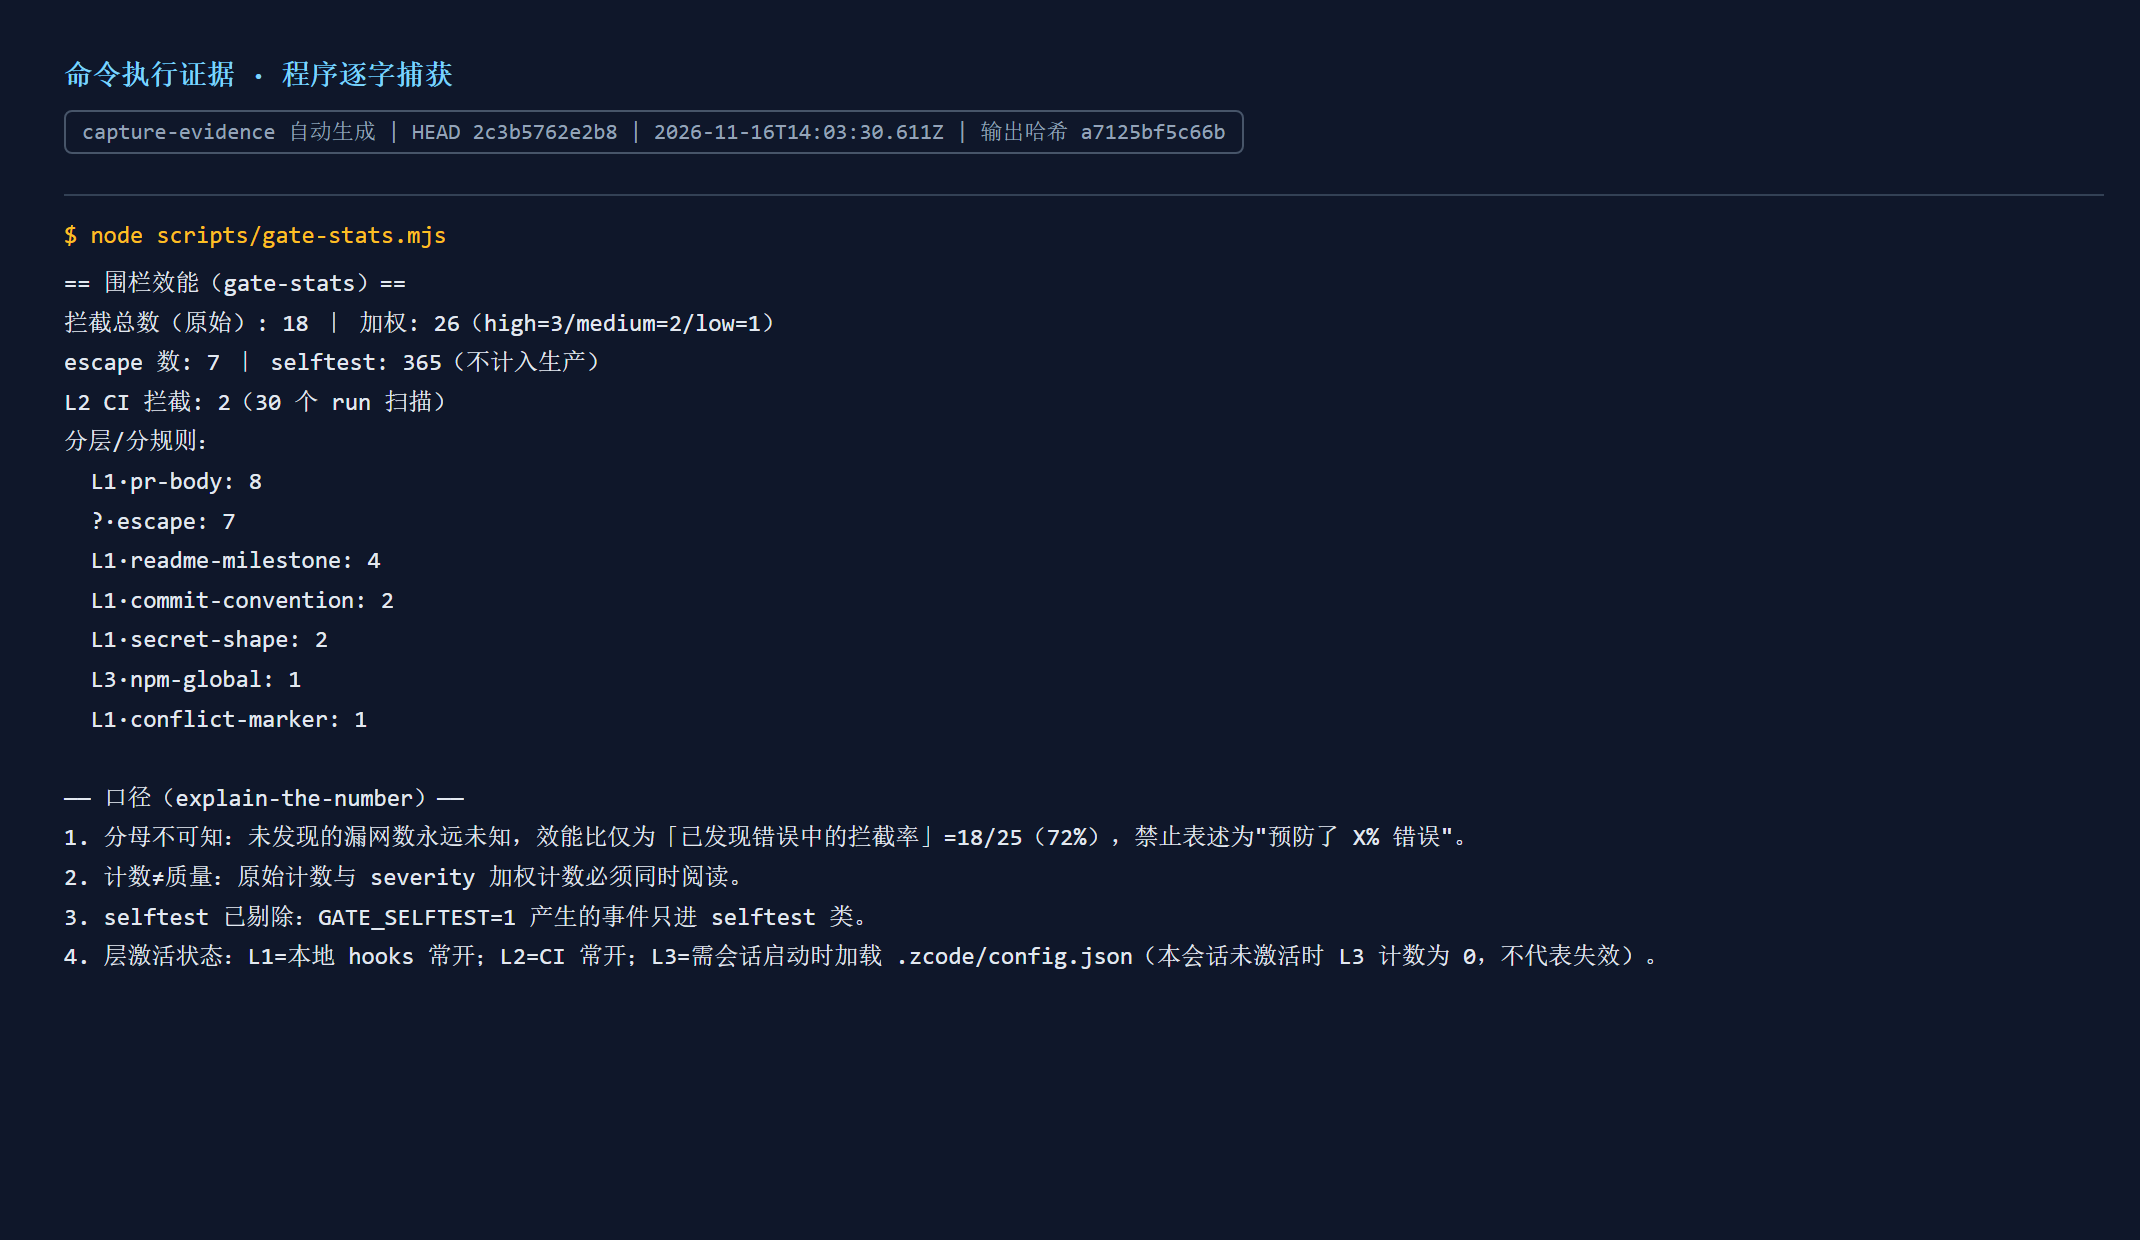
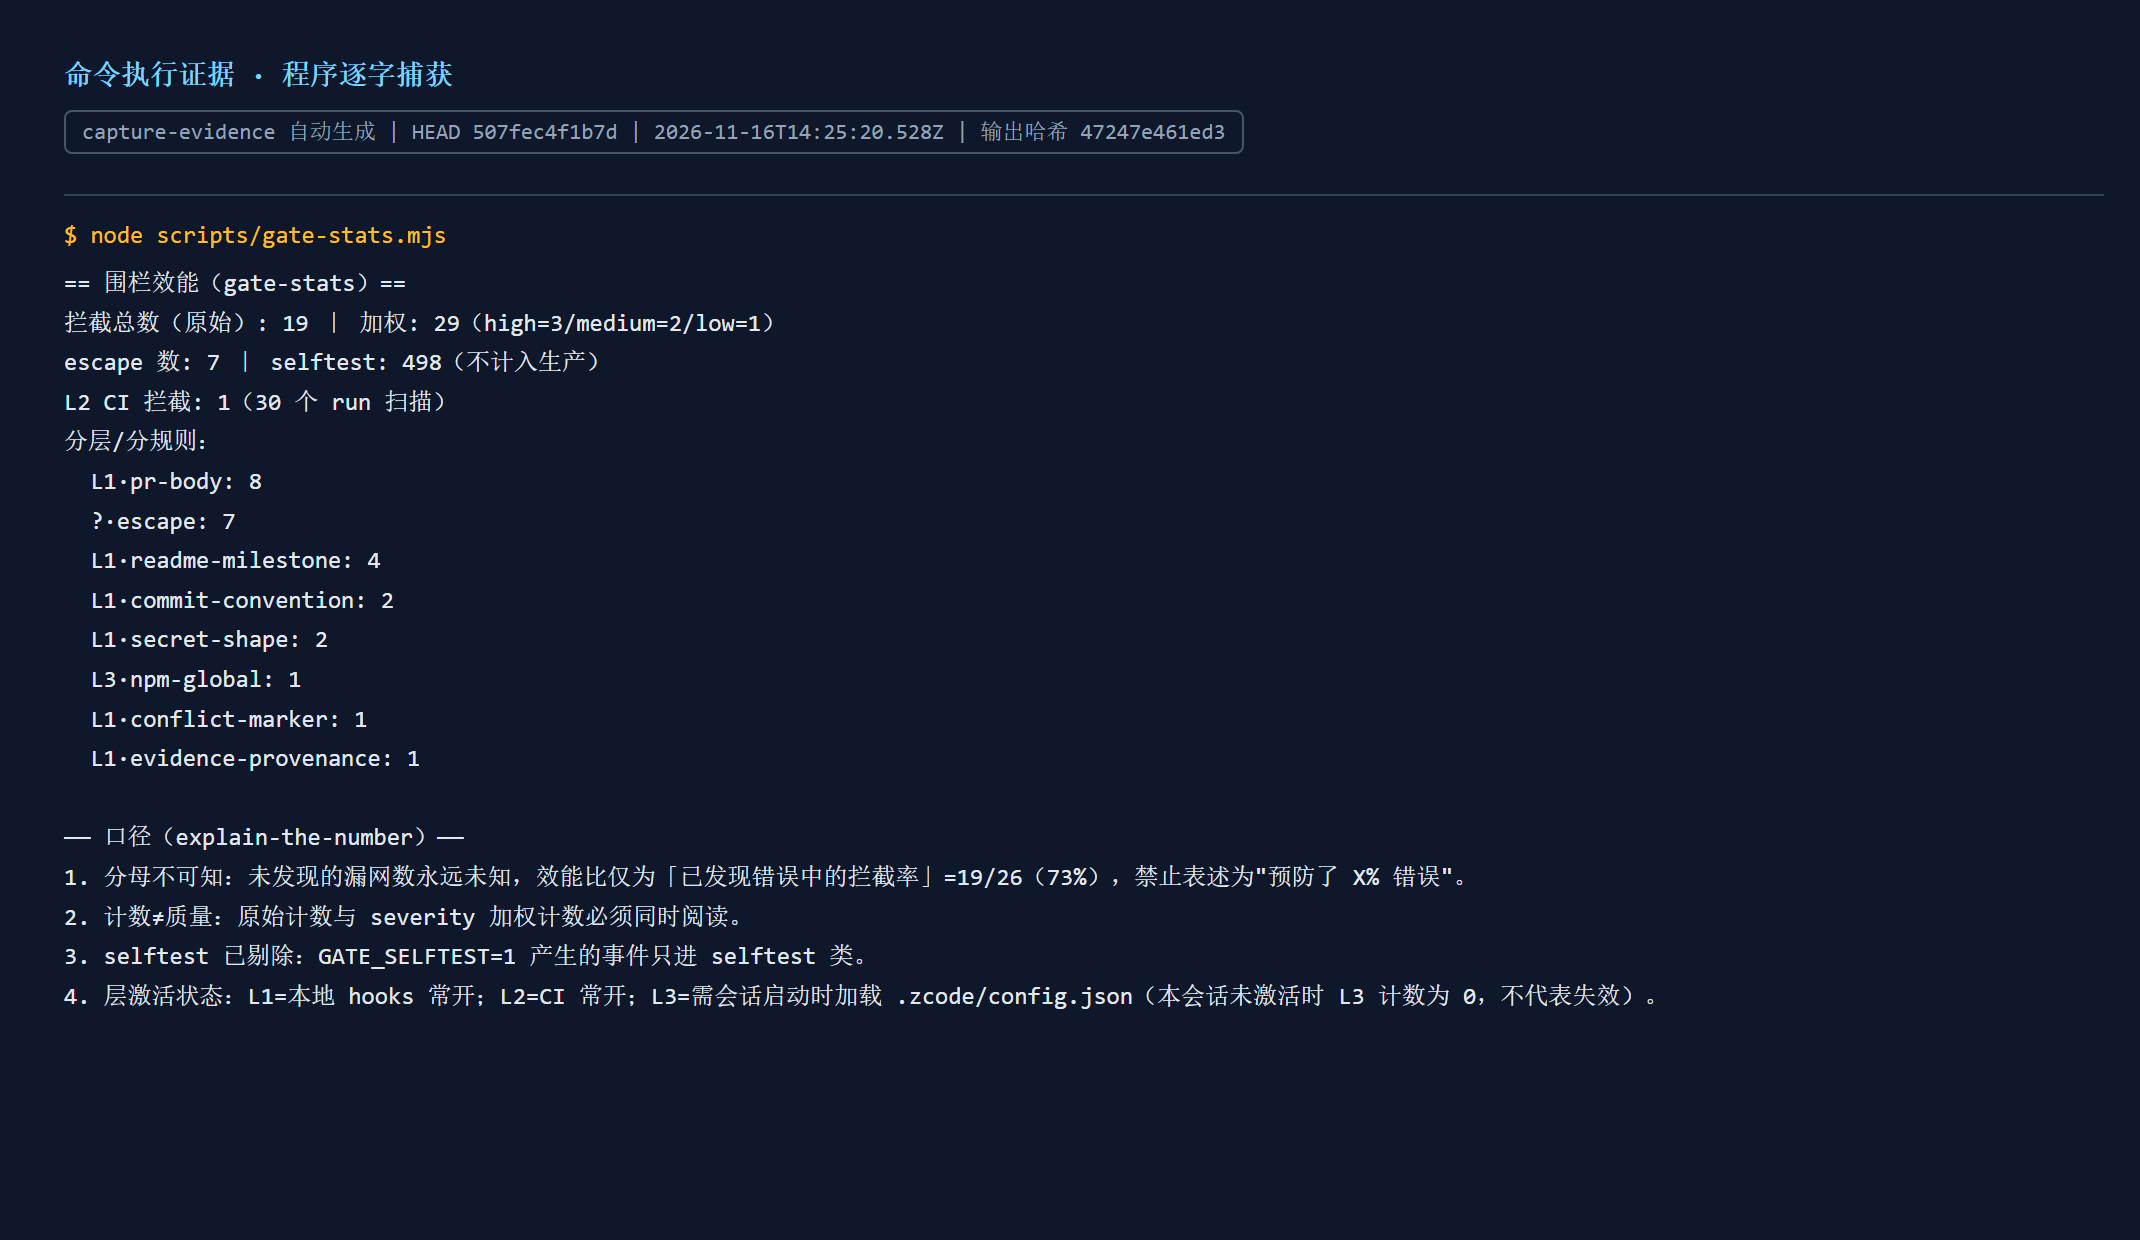
feat(gate): 证据溯源链补全——pngSha256 换芯检测 + 全仓库图片范围 + 畸形 meta 兜底 + 重放延后决策（reviewer 第七轮 F1-F5 修复）

diff --git a/docs/gate-ledger.md b/docs/gate-ledger.md
@@ -46,3 +46,9 @@
 - **shouldHaveBeenCaughtBy**：L1·readme-milestone（5a 的完成方向锚定缺口）+ 阶段收尾流程纪律
 - **whyMissed**：锚定缺口——规则只覆盖「报告与勾选不一致」，不覆盖「该写报告而未写」
 - **remediation**：phase-3-report.md 补齐 + README U3 勾选 + 规则升级：README 未勾选的 U-N 行若引用的 PR 已全部合并 → 拦截（gh 查 merge state，CI 与本地均可执行）；EXP-012 记录 reviewer 判据同源缺口
+
+### GAP-007 补记（2026-11-16）· 重放校验延后的决策与理由
+
+- **决策**：证据溯源的 L2 重放校验（CI 内重新执行命令并比对输出哈希）暂缓——回归样本集与审计日志口径的输出含非确定片段（计数随审计日志状态变化、时间戳），重放必然不一致，会产生系统性误报
+- **当前防线**：L1 完整性校验（outputText 哈希 + PNG 字节绑定 pngSha256 换芯检测）+ 捕获工具唯一化（agent 无法参与文本撰写）已覆盖「手工构造」与「事后换芯」两类伪造；重放针对的剩余形态是「陈旧证据冒充新运行」——由 meta 的 HEAD/时间戳字段供人工核验
+- **收口条件**：gate-selftest/gate-stats 输出改造为确定性结构化格式（如 --json 固定 schema）后启用重放，届时 SAFE_REPLAY 白名单按命令粒度启用
